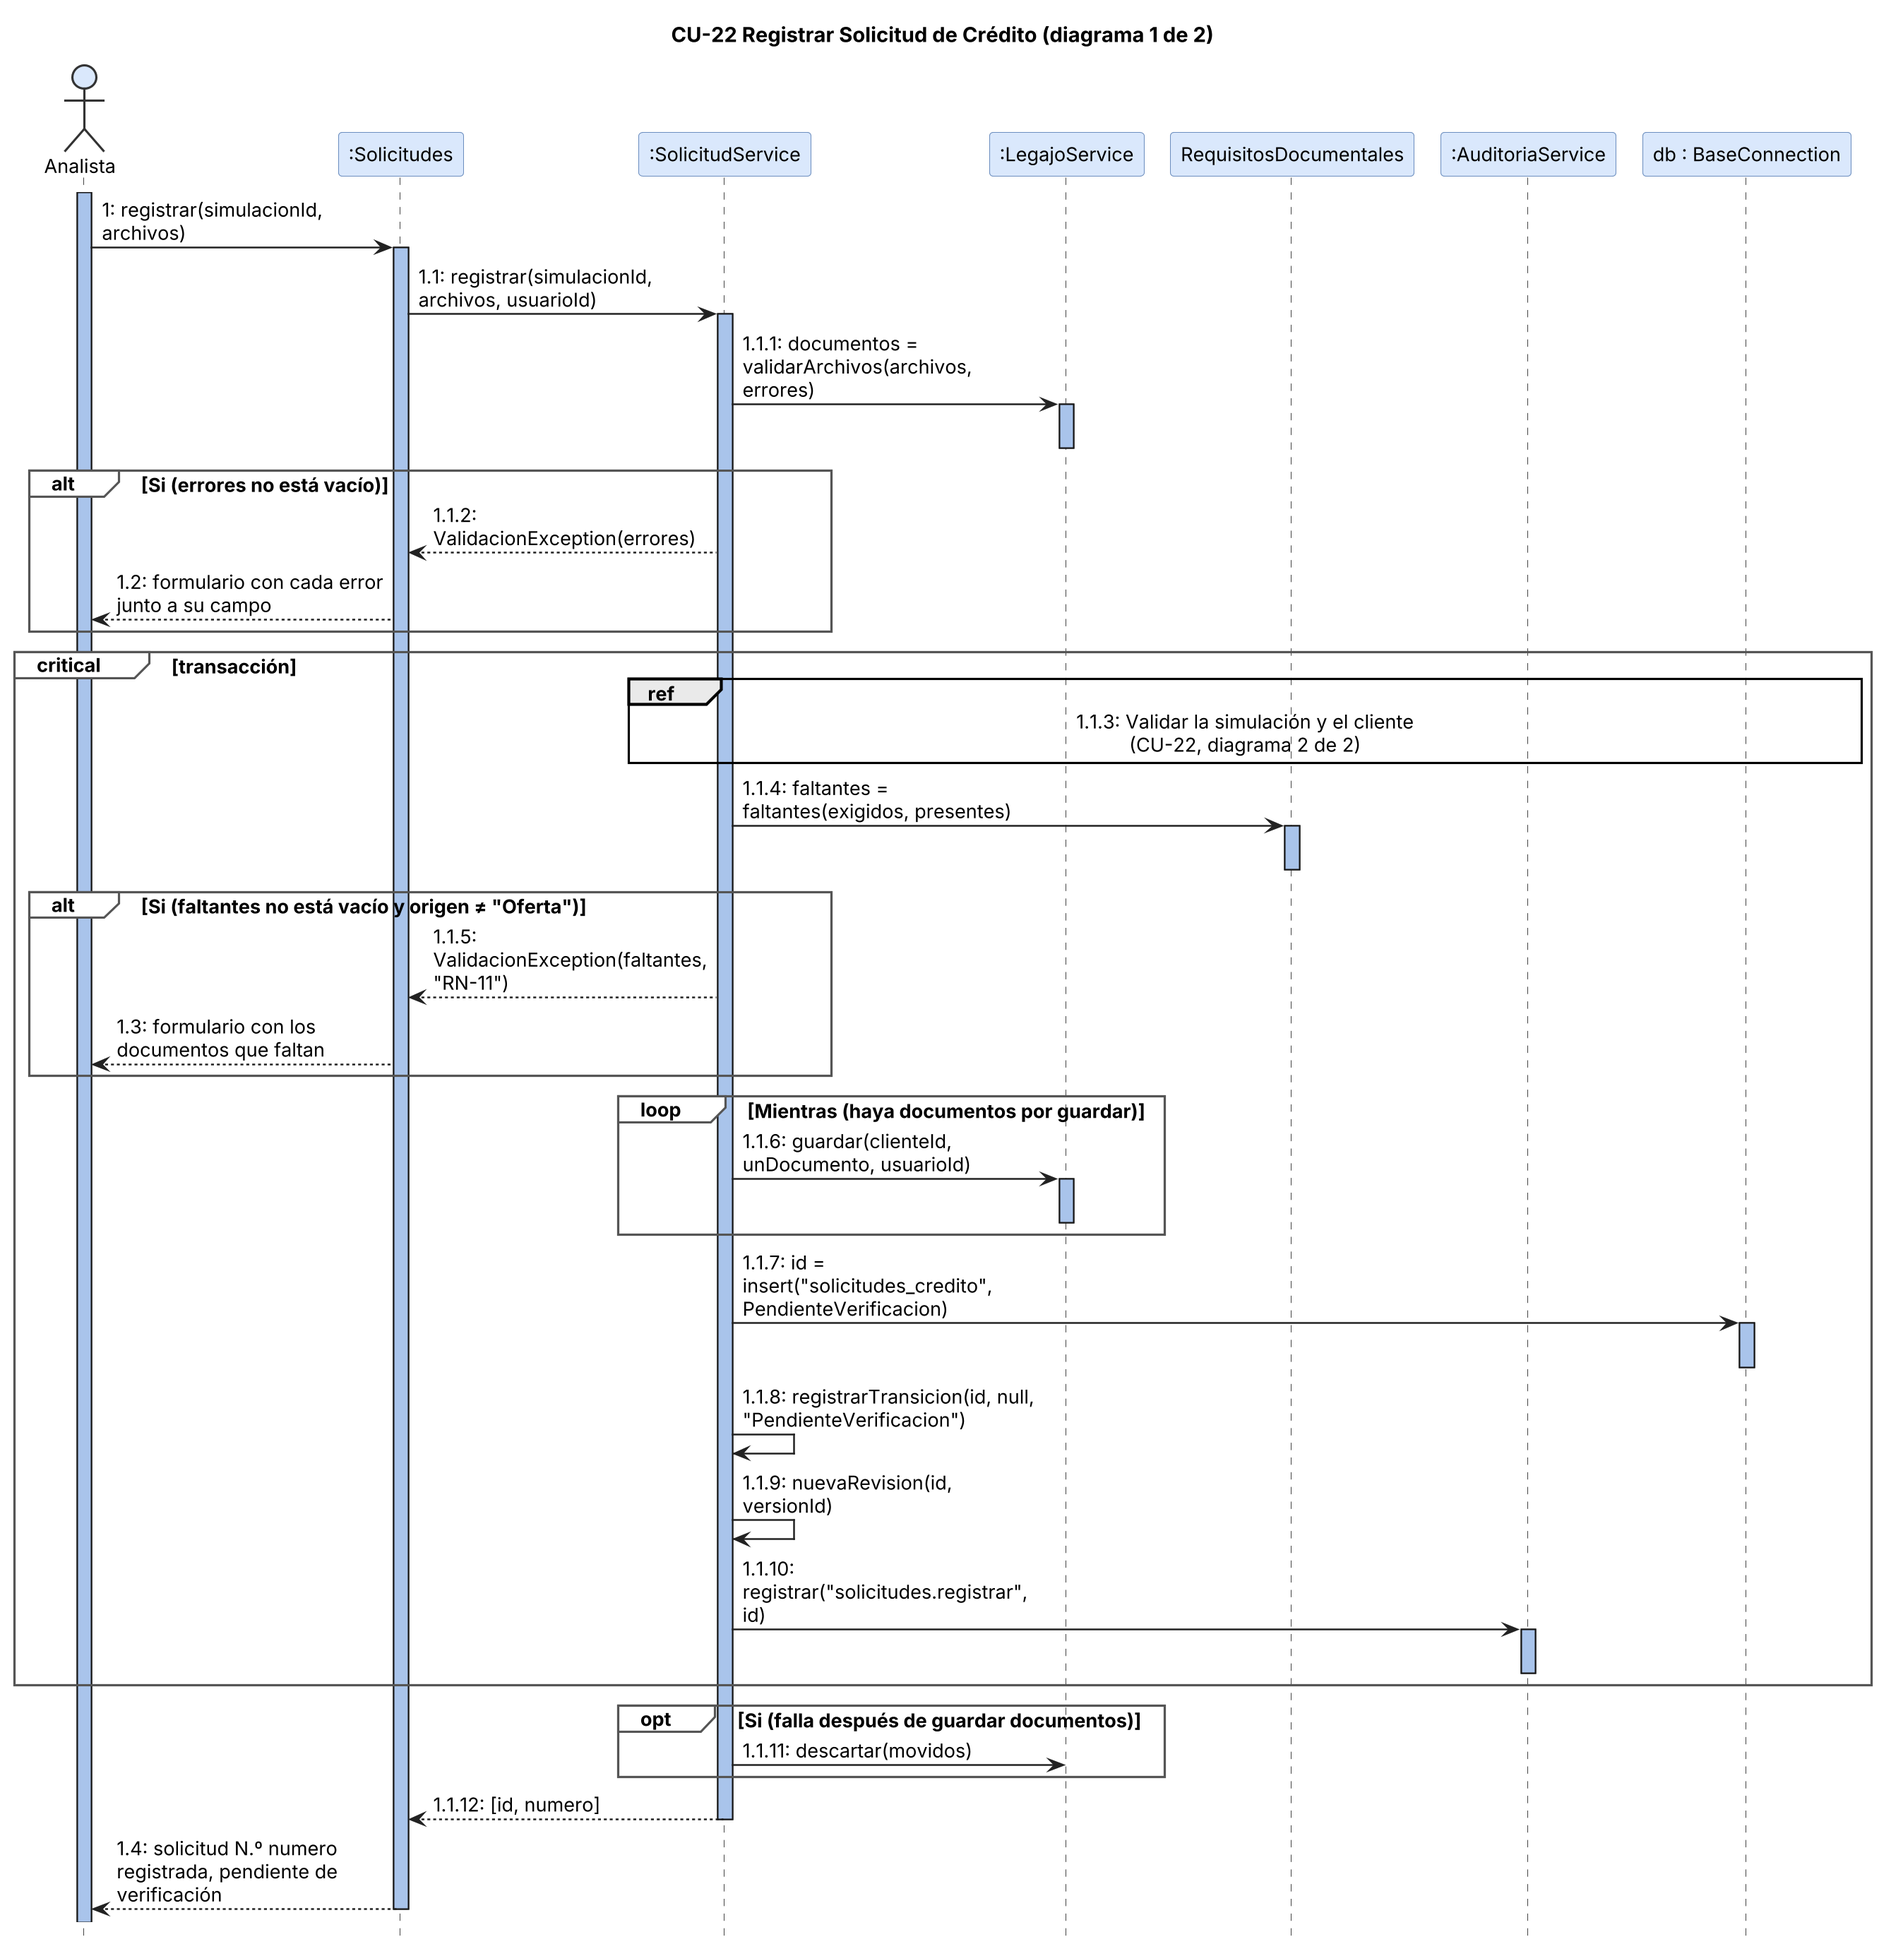
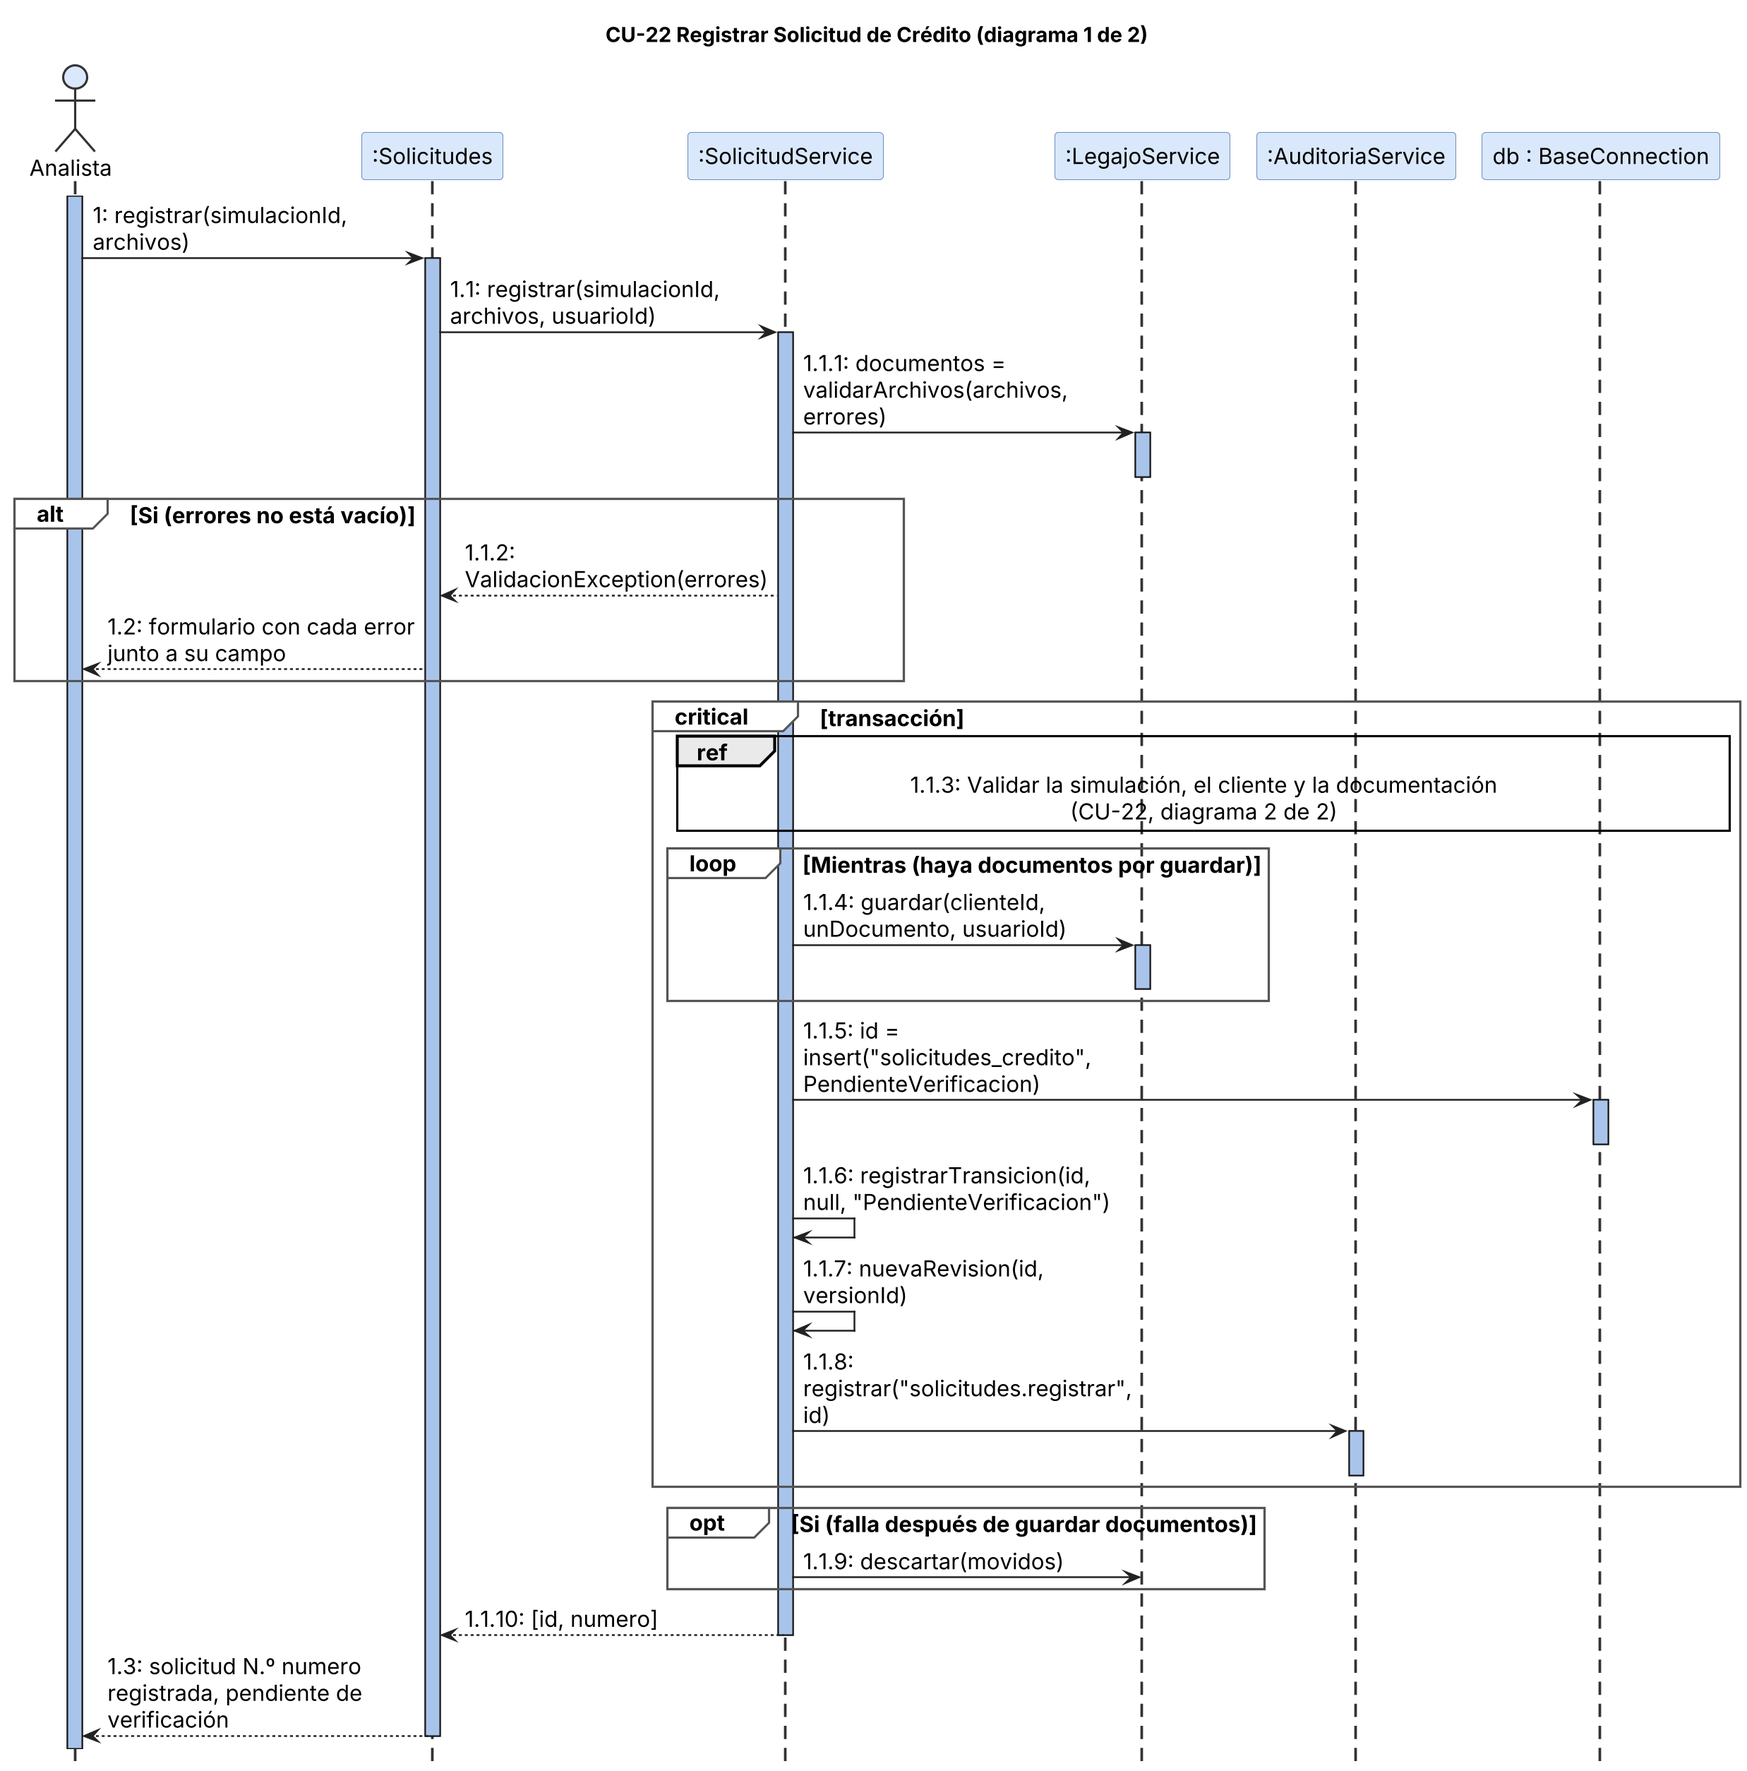
docs(diseno): líneas de vida más visibles y CU-22 con hasta 6 líneas de vida por diagrama
Claude-Session: https://claude.ai/code/session_01FsCpygcSpVkC8DMUnneXPw

diff --git a/docs/diseno/secuencias/README.md b/docs/diseno/secuencias/README.md
@@ -16,6 +16,8 @@ Fuentes en PlantUML de los diagramas de secuencia de las secciones 4.4.7 y 4.5 d
 | Autollamada | Método propio del objeto (`bloquear("clientes", id)`, `registrarTransicion(…)`). |
 | Fragmentos | `alt` con guardas `[Si (…)]` y una rama por condición; `opt` para una sola rama; `loop` con `[Mientras (…)]`; `critical [transacción]` para lo que ocurre dentro de una transacción. |
 | Interacción referenciada | `ref` cuando el diagrama no entra legible en una página; la interacción se dibuja aparte con el título `sd Nombre` y numeración propia. |
+| Tamaño | Hasta 6 líneas de vida además del actor y unos 15 mensajes por diagrama, en hoja vertical a todo el ancho (17,1 cm): la letra impresa queda en 6 a 7 pt. Los diagramas son más altos que anchos, así que la hoja apaisada los achica (la altura útil es de 15,5 cm). |
+| Líneas de vida | Punteadas (trazo 9-6), de 1,8 px y gris oscuro, para que se vean impresas. |
 | Notas | Solo para aclaraciones que no son mensajes (variables locales, decisiones). |
 
 ## Generar las imágenes
